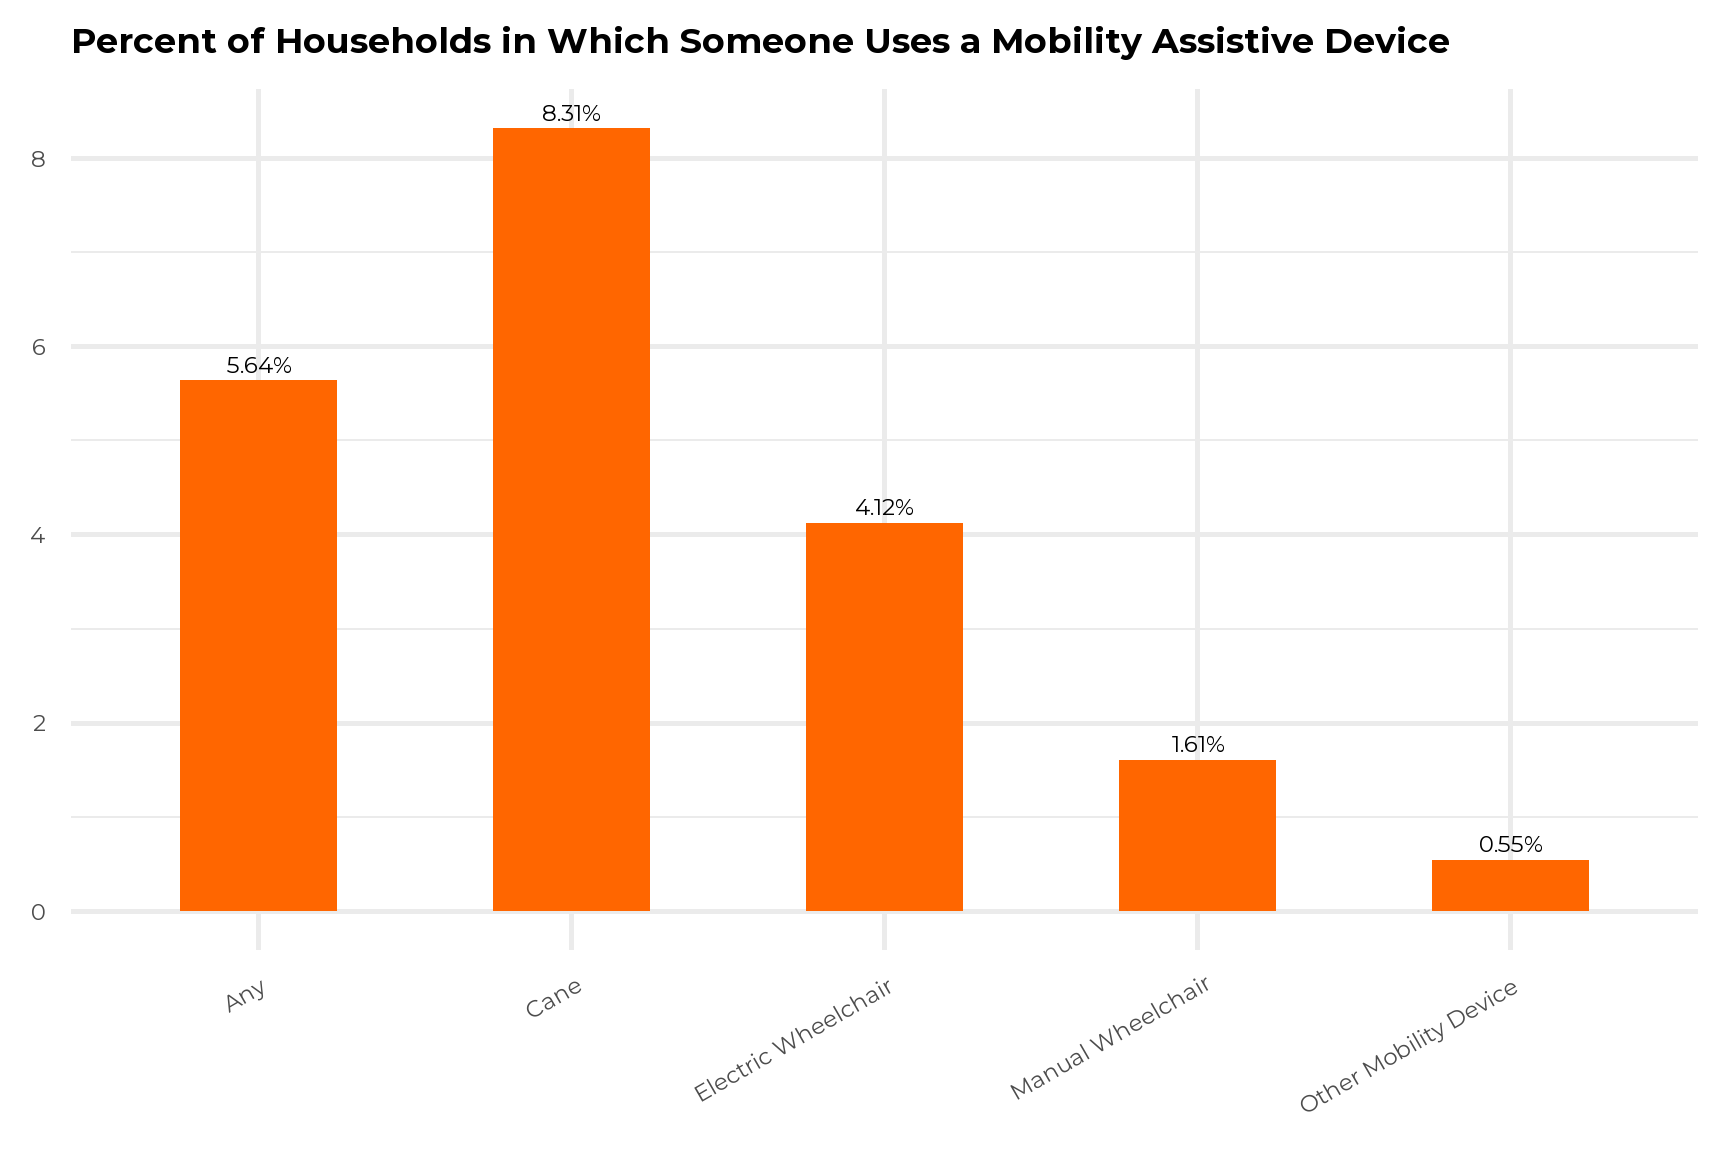
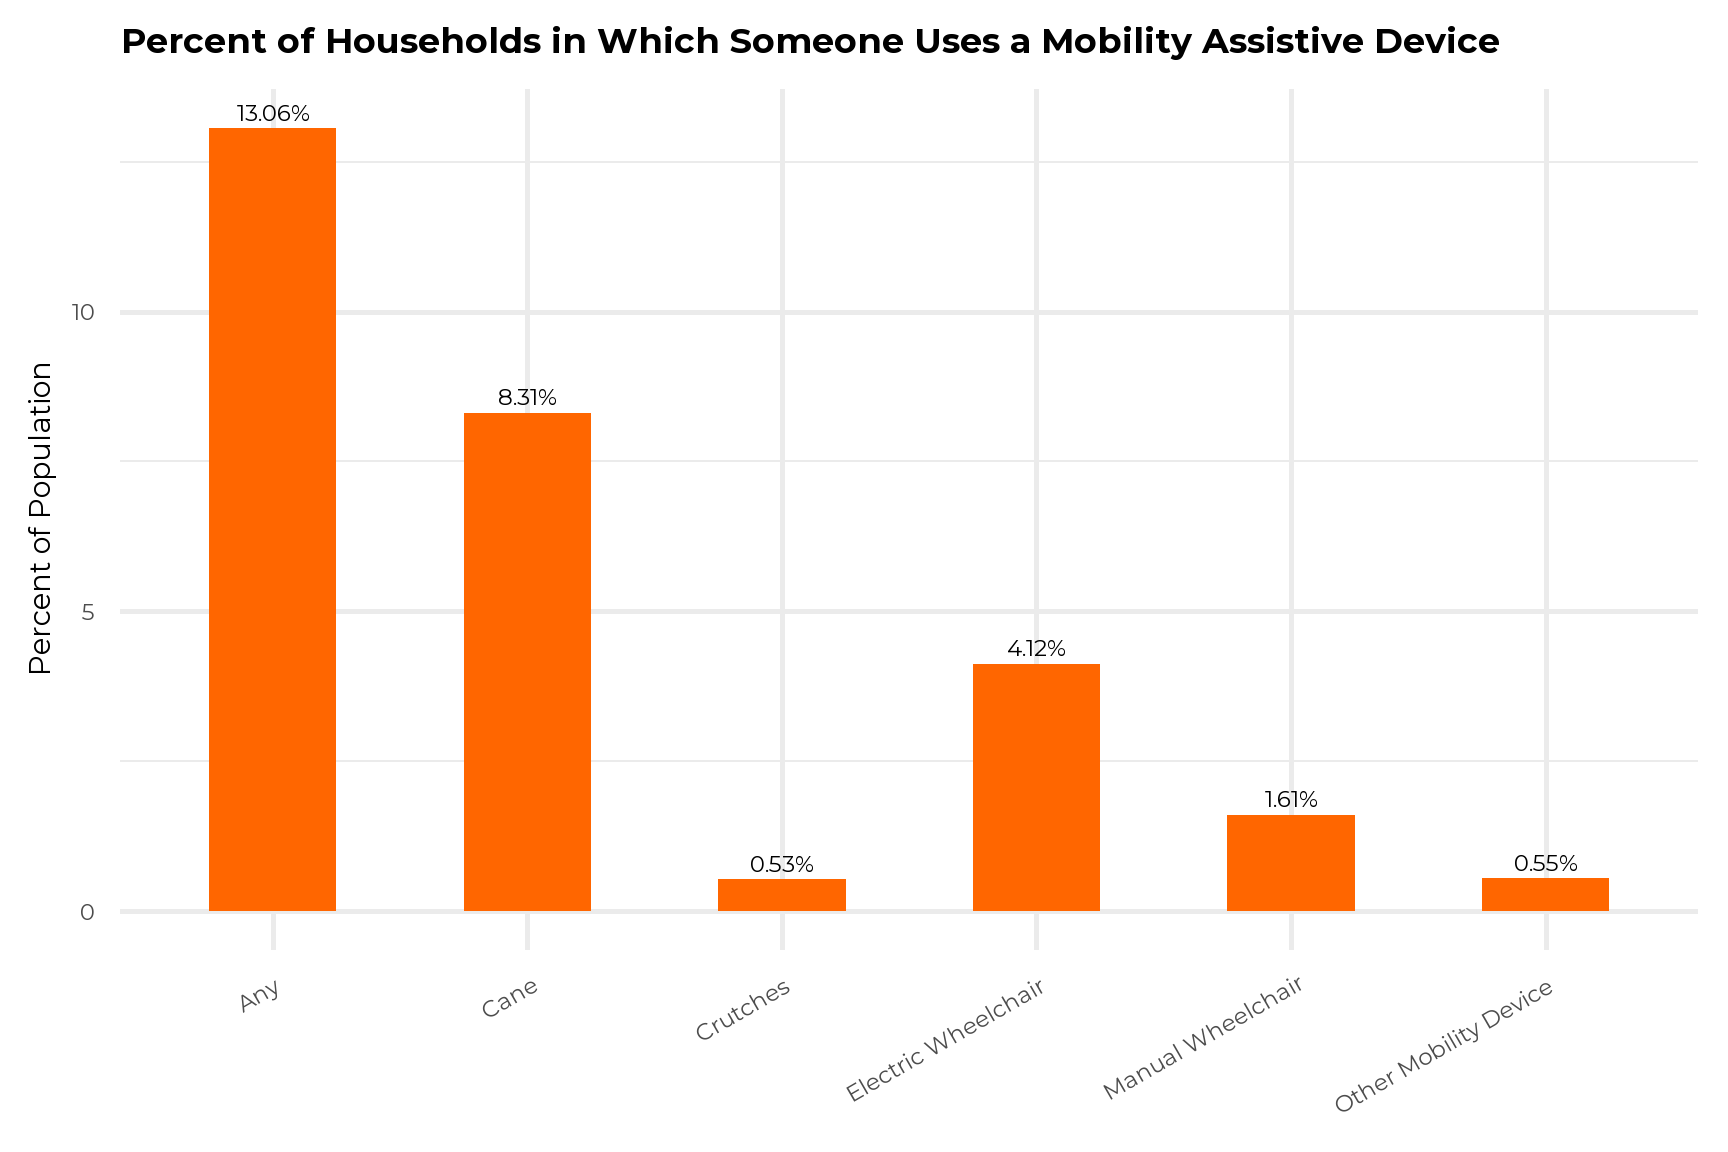
fix any mob device flag and add estimates

diff --git a/docs/index.html b/docs/index.html
@@ -451,6 +451,10 @@ Disabilities, and Special Needs have not yet been defined.</em></p>
 <div id="household-level-accessibility-estimates"
 class="section level2">
 <h2>Household Level Accessibility Estimates</h2>
+<p>For Jefferson County, the number of households that include at least
+one person who uses any mobility assistive device is estimated to be
+43,517, and around 18,031 include at least one person with either a
+manual or electric wheelchair.</p>
 <p><img src="index_files/figure-html/household_accessibility_devices-1.png" width="864" /></p>
 </div>
 <div id="accessing-areas-of-the-home" class="section level2 tabset">
